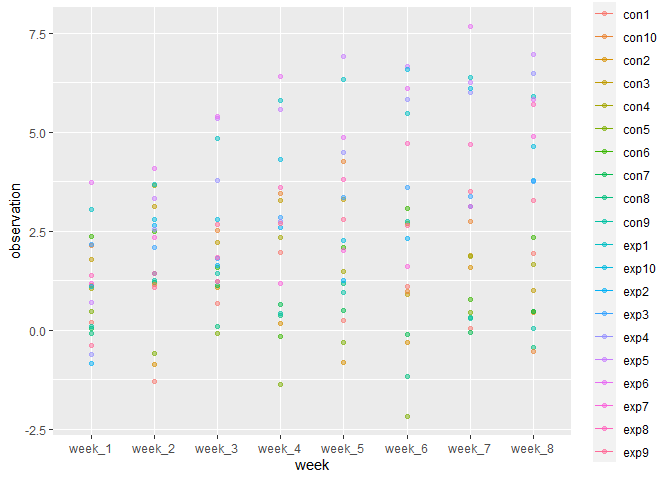
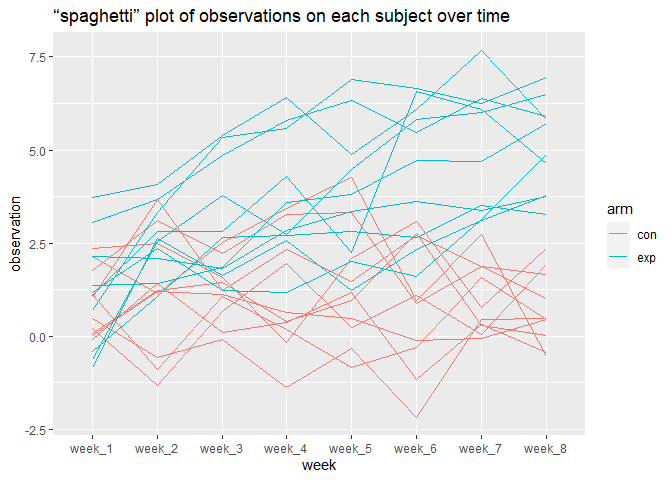
Final

diff --git a/p8105_hw5_xz3078.md b/p8105_hw5_xz3078.md
@@ -18,17 +18,6 @@ homicide_df =
   filter(city_state != "TulsaAL")
 ```
 
-    ## Rows: 52179 Columns: 12
-
-    ## -- Column specification --------------------------------------------------------
-    ## Delimiter: ","
-    ## chr (8): uid, victim_last, victim_first, victim_race, victim_sex, city, stat...
-    ## dbl (4): reported_date, victim_age, lat, lon
-
-    ## 
-    ## i Use `spec()` to retrieve the full column specification for this data.
-    ## i Specify the column types or set `show_col_types = FALSE` to quiet this message.
-
 ``` r
 baltimore_df = 
   homicide_df %>%
@@ -70,7 +59,24 @@ results_df = homicide_df %>%
   select(city_state, tidy_results) %>%
   unnest(tidy_results) %>%
   select(city_state, estimate, starts_with("conf"))
+
+results_df
 ```
+
+    ## # A tibble: 50 x 4
+    ##    city_state    estimate conf.low conf.high
+    ##    <chr>            <dbl>    <dbl>     <dbl>
+    ##  1 AlbuquerqueNM    0.386    0.337     0.438
+    ##  2 AtlantaGA        0.383    0.353     0.415
+    ##  3 BaltimoreMD      0.646    0.628     0.663
+    ##  4 Baton RougeLA    0.462    0.414     0.511
+    ##  5 BirminghamAL     0.434    0.399     0.469
+    ##  6 BostonMA         0.505    0.465     0.545
+    ##  7 BuffaloNY        0.612    0.569     0.654
+    ##  8 CharlotteNC      0.300    0.266     0.336
+    ##  9 ChicagoIL        0.736    0.724     0.747
+    ## 10 CincinnatiOH     0.445    0.408     0.483
+    ## # ... with 40 more rows
 
 ``` r
 results_df %>%
@@ -100,8 +106,7 @@ values = output %>%
 
 data = tibble(file_name, values) %>% 
   separate(files, into = c("arm", "id"), sep = "\\_") %>%
-  mutate(id = str_replace(id, "\\.csv", ""),
-         id = as.numeric(id)) %>%
+  mutate(id = str_replace(id, "\\.csv", "")) %>%
   pivot_longer(
     week_1:week_8,
     names_to = "week", 
@@ -111,30 +116,17 @@ data = tibble(file_name, values) %>%
   select(arm_id, everything())
 
 data %>% 
-  group_by(arm_id) %>%
-  ggplot(aes(x = week, y = observation, color = arm_id)) + 
-    geom_point(alpha = .5) + 
-    geom_line()
+  ggplot(aes(x = week, y = observation, group = arm_id, color = arm)) + 
+    geom_line() + 
+    labs(title = "“spaghetti” plot of observations on each subject over time")
 ```
-
-    ## geom_path: Each group consists of only one observation. Do you need to adjust
-    ## the group aesthetic?
 
 ![](p8105_hw5_xz3078_files/figure-gfm/unnamed-chunk-5-1.png)<!-- -->
 
-``` r
-    labs(title = "“spaghetti” plot of average value over time",
-         y = "mean value")
-```
-
-    ## $y
-    ## [1] "mean value"
-    ## 
-    ## $title
-    ## [1] "“spaghetti” plot of average value over time"
-    ## 
-    ## attr(,"class")
-    ## [1] "labels"
+We can see from the plot that experiment groups seem to have higher
+growth in observations over 8 weeks than control groups. There are not
+much changes in control groups over time. At week 7 and week 8, the
+observations of all experiment groups are higher than control groups.
 
 ## Problem 3
 
@@ -143,5 +135,39 @@ set.seed(10)
 
 iris_with_missing = iris %>% 
   map_df(~replace(.x, sample(1:150, 20), NA)) %>%
-  mutate(Species = as.character(Species))
+  mutate(Species = as.character(Species)) %>%
+  janitor::clean_names()
 ```
+
+``` r
+replace_missing = function(x) {
+  
+  if(is.numeric(x)) {
+    x = ifelse(is.na(x), mean(x, na.rm = TRUE), x)
+  }
+  
+  if(is.character(x)) {
+     x = ifelse(is.na(x), "virginica", x)
+  }
+  
+  return(x)
+  
+}
+
+map_df(iris_with_missing, replace_missing)
+```
+
+    ## # A tibble: 150 x 5
+    ##    sepal_length sepal_width petal_length petal_width species
+    ##           <dbl>       <dbl>        <dbl>       <dbl> <chr>  
+    ##  1         5.1          3.5         1.4         0.2  setosa 
+    ##  2         4.9          3           1.4         0.2  setosa 
+    ##  3         4.7          3.2         1.3         0.2  setosa 
+    ##  4         4.6          3.1         1.5         1.19 setosa 
+    ##  5         5            3.6         1.4         0.2  setosa 
+    ##  6         5.4          3.9         1.7         0.4  setosa 
+    ##  7         5.82         3.4         1.4         0.3  setosa 
+    ##  8         5            3.4         1.5         0.2  setosa 
+    ##  9         4.4          2.9         1.4         0.2  setosa 
+    ## 10         4.9          3.1         3.77        0.1  setosa 
+    ## # ... with 140 more rows
